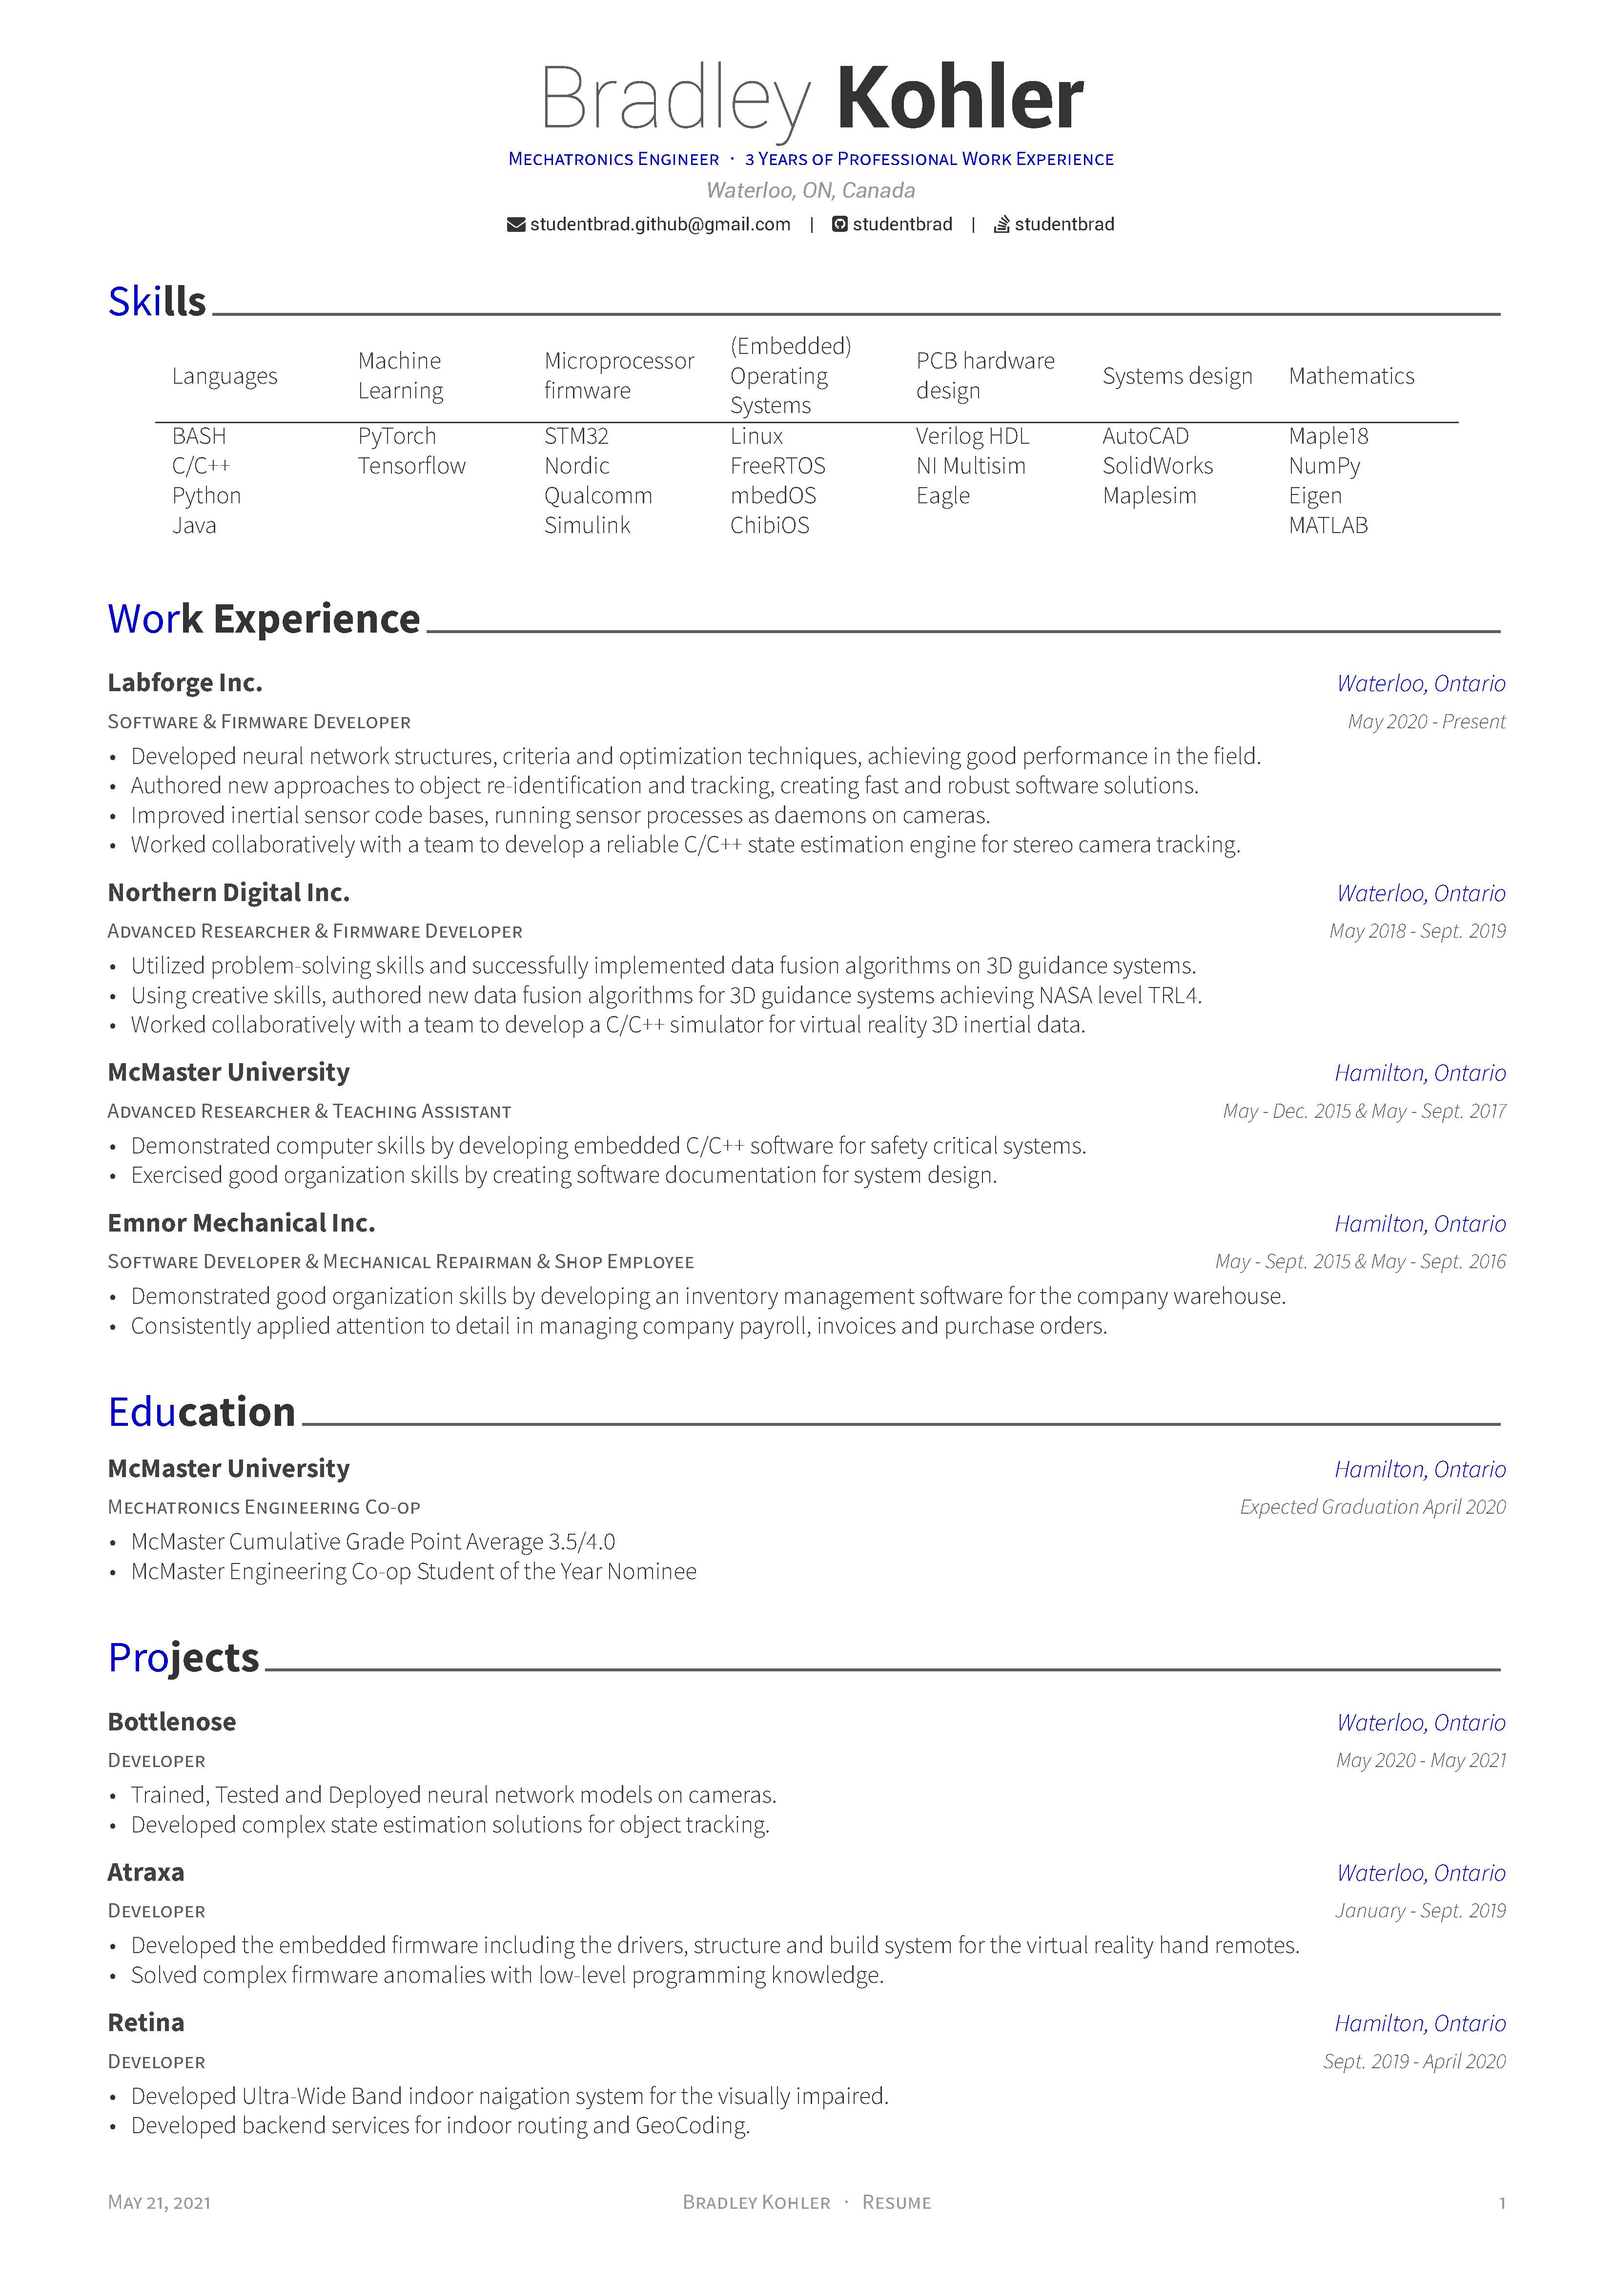
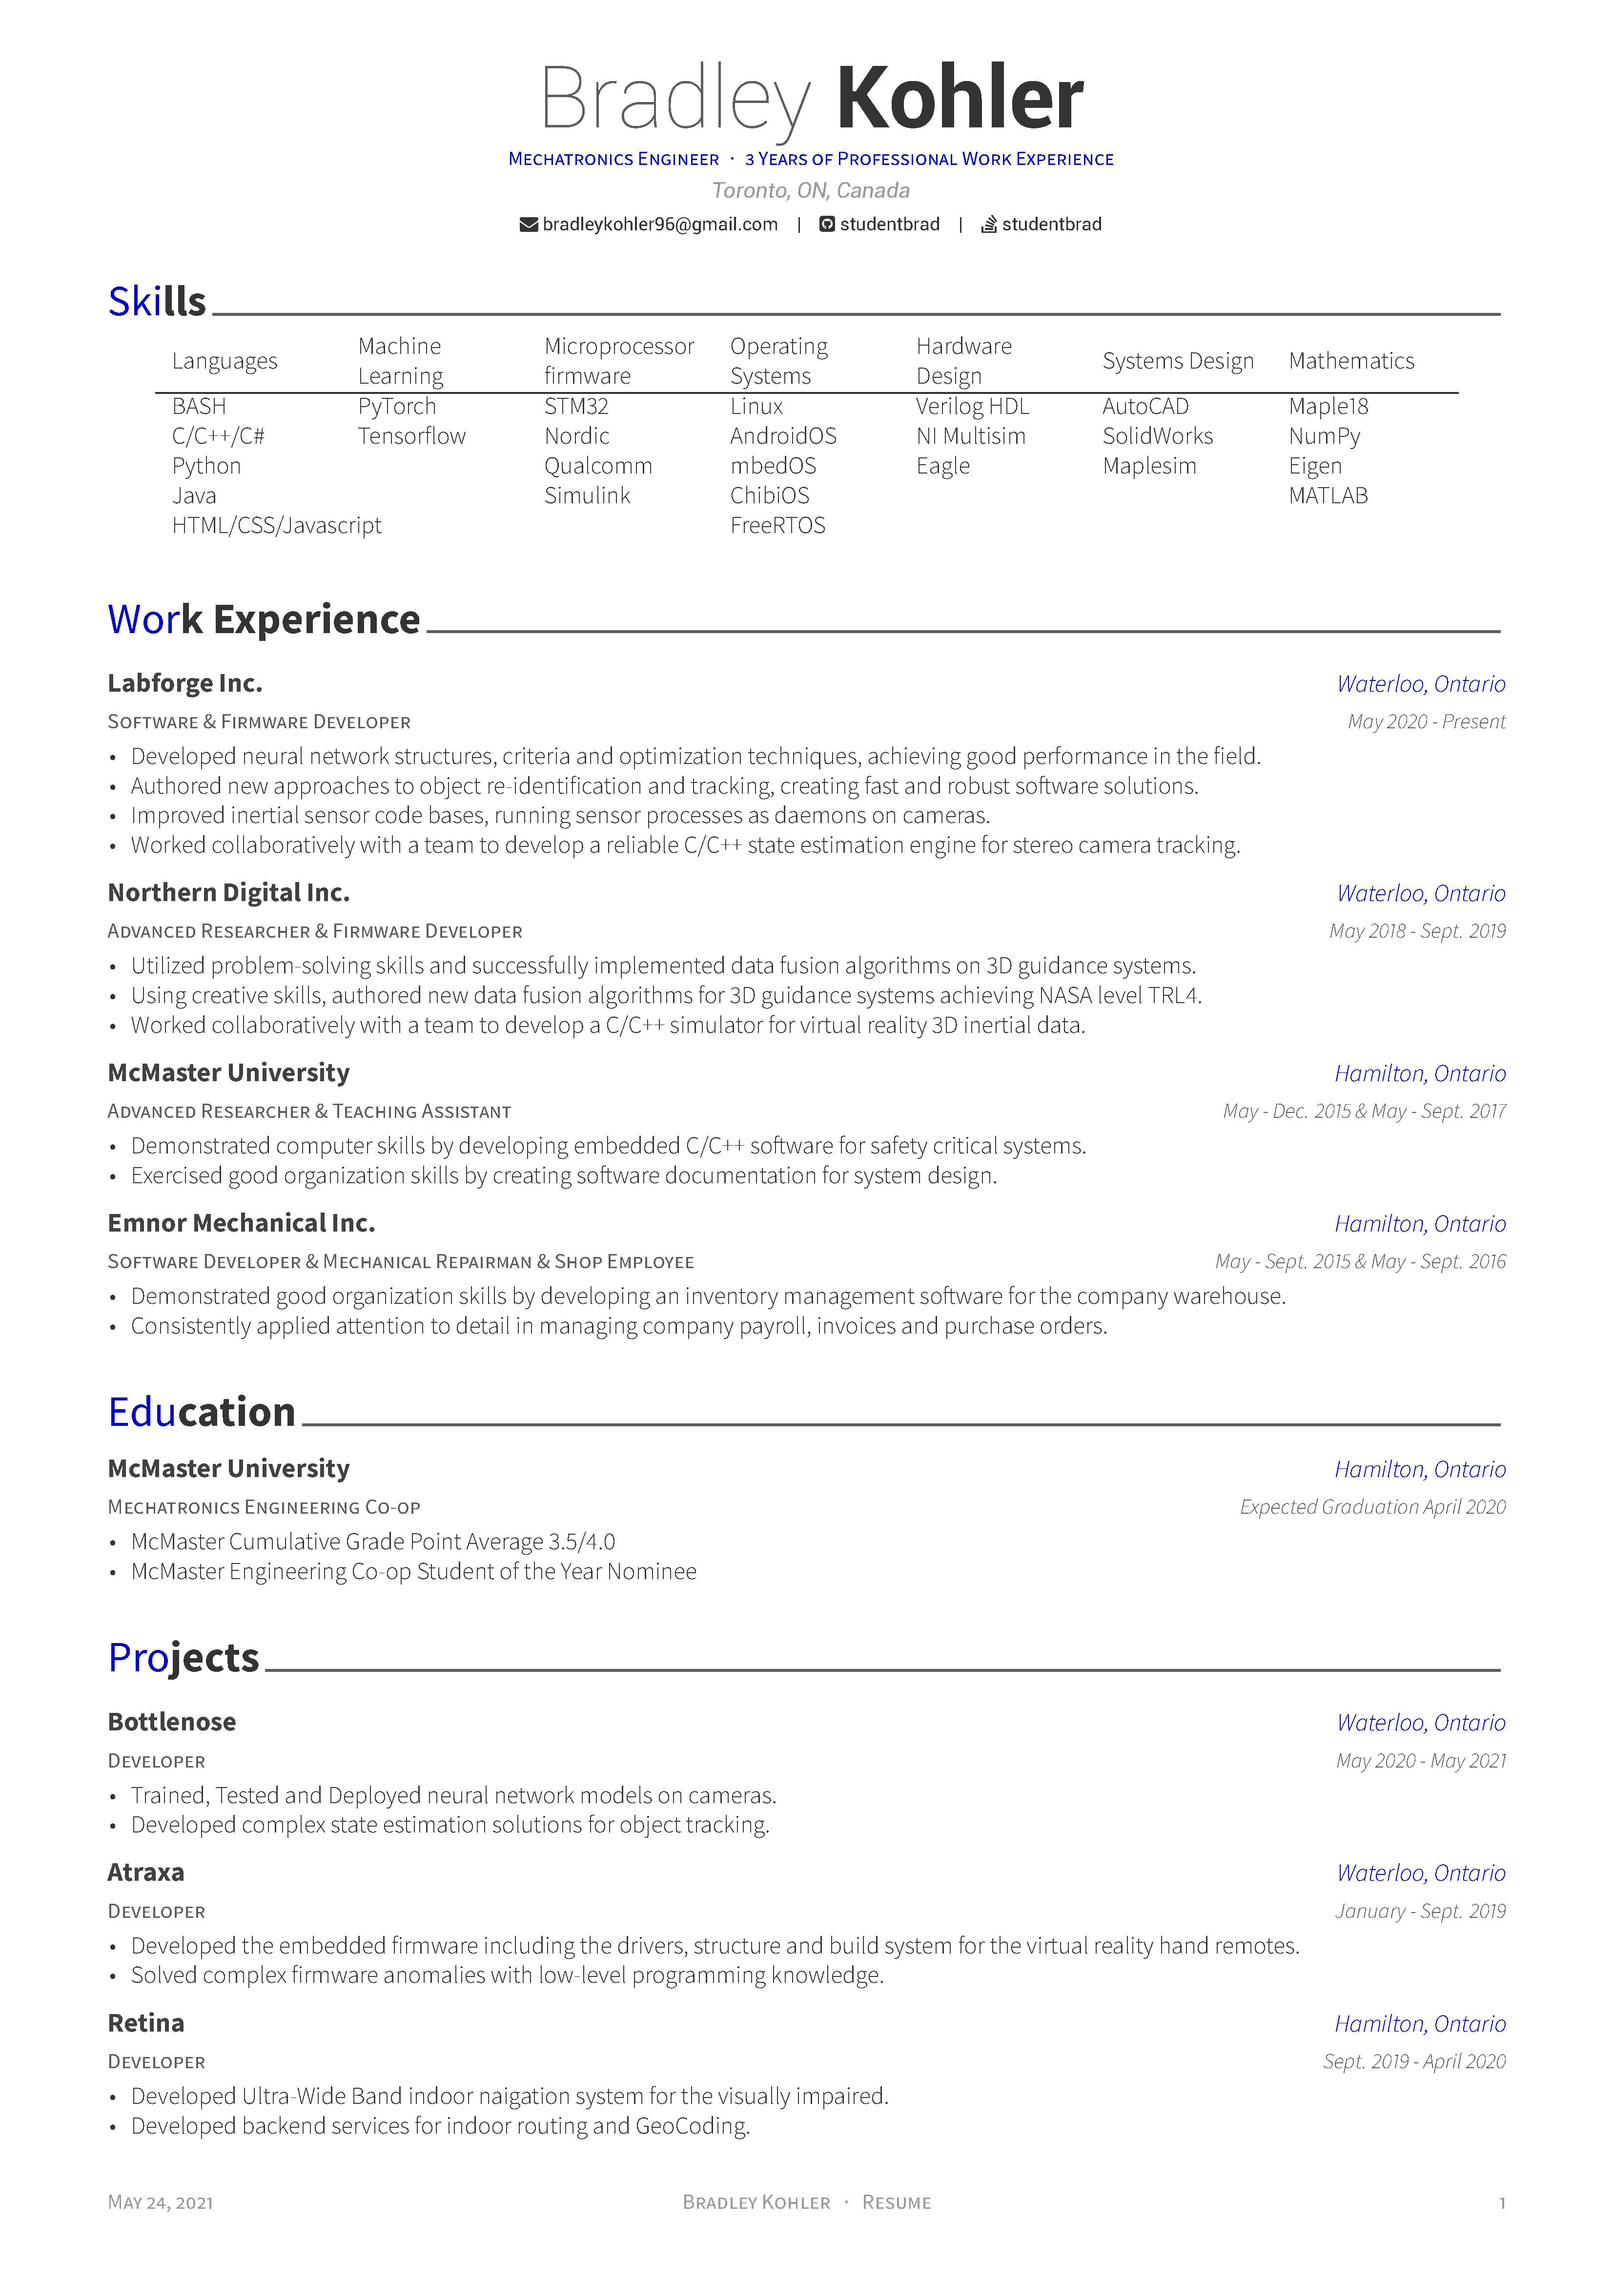
updated skills

diff --git a/personal_resume/skills.tex b/personal_resume/skills.tex
@@ -12,12 +12,13 @@
 \newcolumntype{L}{>{\raggedright\arraybackslash}m{2cm}}
 \begin{center}
   \begin{tabular}{L L L L L L L}
-  Languages & Machine Learning & Microprocessor firmware & (Embedded) Operating Systems & PCB hardware design & Systems design & Mathematics \\
+  Languages & Machine Learning & Microprocessor Firmware & Operating Systems & Hardware Design & Systems Design & Mathematics \\
   \hline
-  BASH      & PyTorch    & STM32    & Linux    & Verilog HDL & AutoCAD    & Maple18 \\
-  C/C++     & Tensorflow & Nordic   & FreeRTOS & NI Multisim & SolidWorks & NumPy   \\
-  Python    &            & Qualcomm & mbedOS   & Eagle       & Maplesim   & Eigen   \\
-  Java      &            & Simulink & ChibiOS  &             &            & MATLAB  \\
+  BASH                 & PyTorch    & STM32    & Linux     & Verilog HDL & AutoCAD    & Maple18 \\
+  C/C++/C\#            & Tensorflow & Nordic   & AndroidOS & NI Multisim & SolidWorks & NumPy   \\
+  Python               &            & Qualcomm & mbedOS    & Eagle       & Maplesim   & Eigen   \\
+  Java                 &            & Simulink & ChibiOS   &             &            & MATLAB  \\
+  HTML/CSS/Javascript  &            &          & FreeRTOS  &             &            &         \\
   \end{tabular}
 \end{center}
 \end{cvparagraph}

diff --git a/studentbrad_personal_resume.tex b/studentbrad_personal_resume.tex
@@ -57,10 +57,10 @@
 % \photo[circle,noedge,left]{images/photo.jpg}
 \name{Bradley}{Kohler}
 \position{Mechatronics Engineer{\enskip\cdotp\enskip}3 Years of Professional Work Experience}
-\address{Waterloo, ON, Canada}
+\address{Toronto, ON, Canada}
 
 % \mobile{(+999) 999 9999}
-\email{studentbrad.github@gmail.com}
+\email{bradleykohler96@gmail.com}
 \github{studentbrad}
 % \gitlab{gitlab-id}
 \stackoverflow{9246673}{studentbrad}
